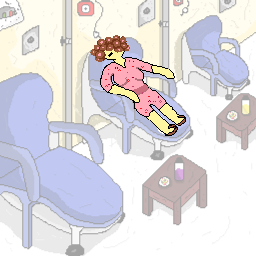
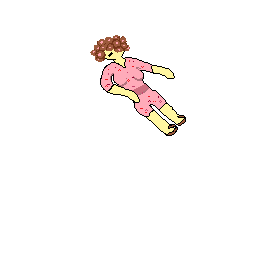
Atualiza sprite da Dona Aparecida e ativa em PATIENT_SPRITES

diff --git a/src/scenes/minigameAssets.js b/src/scenes/minigameAssets.js
@@ -48,6 +48,7 @@ export const MINIGAME_ASSETS = {
     'paciente-joaquim': 'assets/Minigame/Cenario/Pacientes/SeuJoaquim.png',
     'paciente-teo': 'assets/Minigame/Cenario/Pacientes/Theo.png',
     'paciente-yasmin': 'assets/Minigame/Cenario/Pacientes/Yasmin.png',
+    'paciente-aparecida': 'assets/Minigame/Cenario/Pacientes/DonaAparecida.png',
     'joaquim-icon': 'assets/Personagens/SeuJoaquim/SeuJoaquim.Icone.png',
     'marlene-icon': 'assets/Personagens/DonaMarlene/DonaMarlene.Icone.png',
     'aparecida-icon': 'assets/Personagens/DonaAparecida/DonaAparecida.Icone.png',
@@ -86,7 +87,7 @@ export const PATIENT_SPRITES = {
     marlene: 'paciente-marlene',
     teo: 'paciente-teo',
     yasmin: 'paciente-yasmin',
-    aparecida: null
+    aparecida: 'paciente-aparecida'
 };
 
 // Configuracao centralizada do sprite do paciente sobre a poltrona
